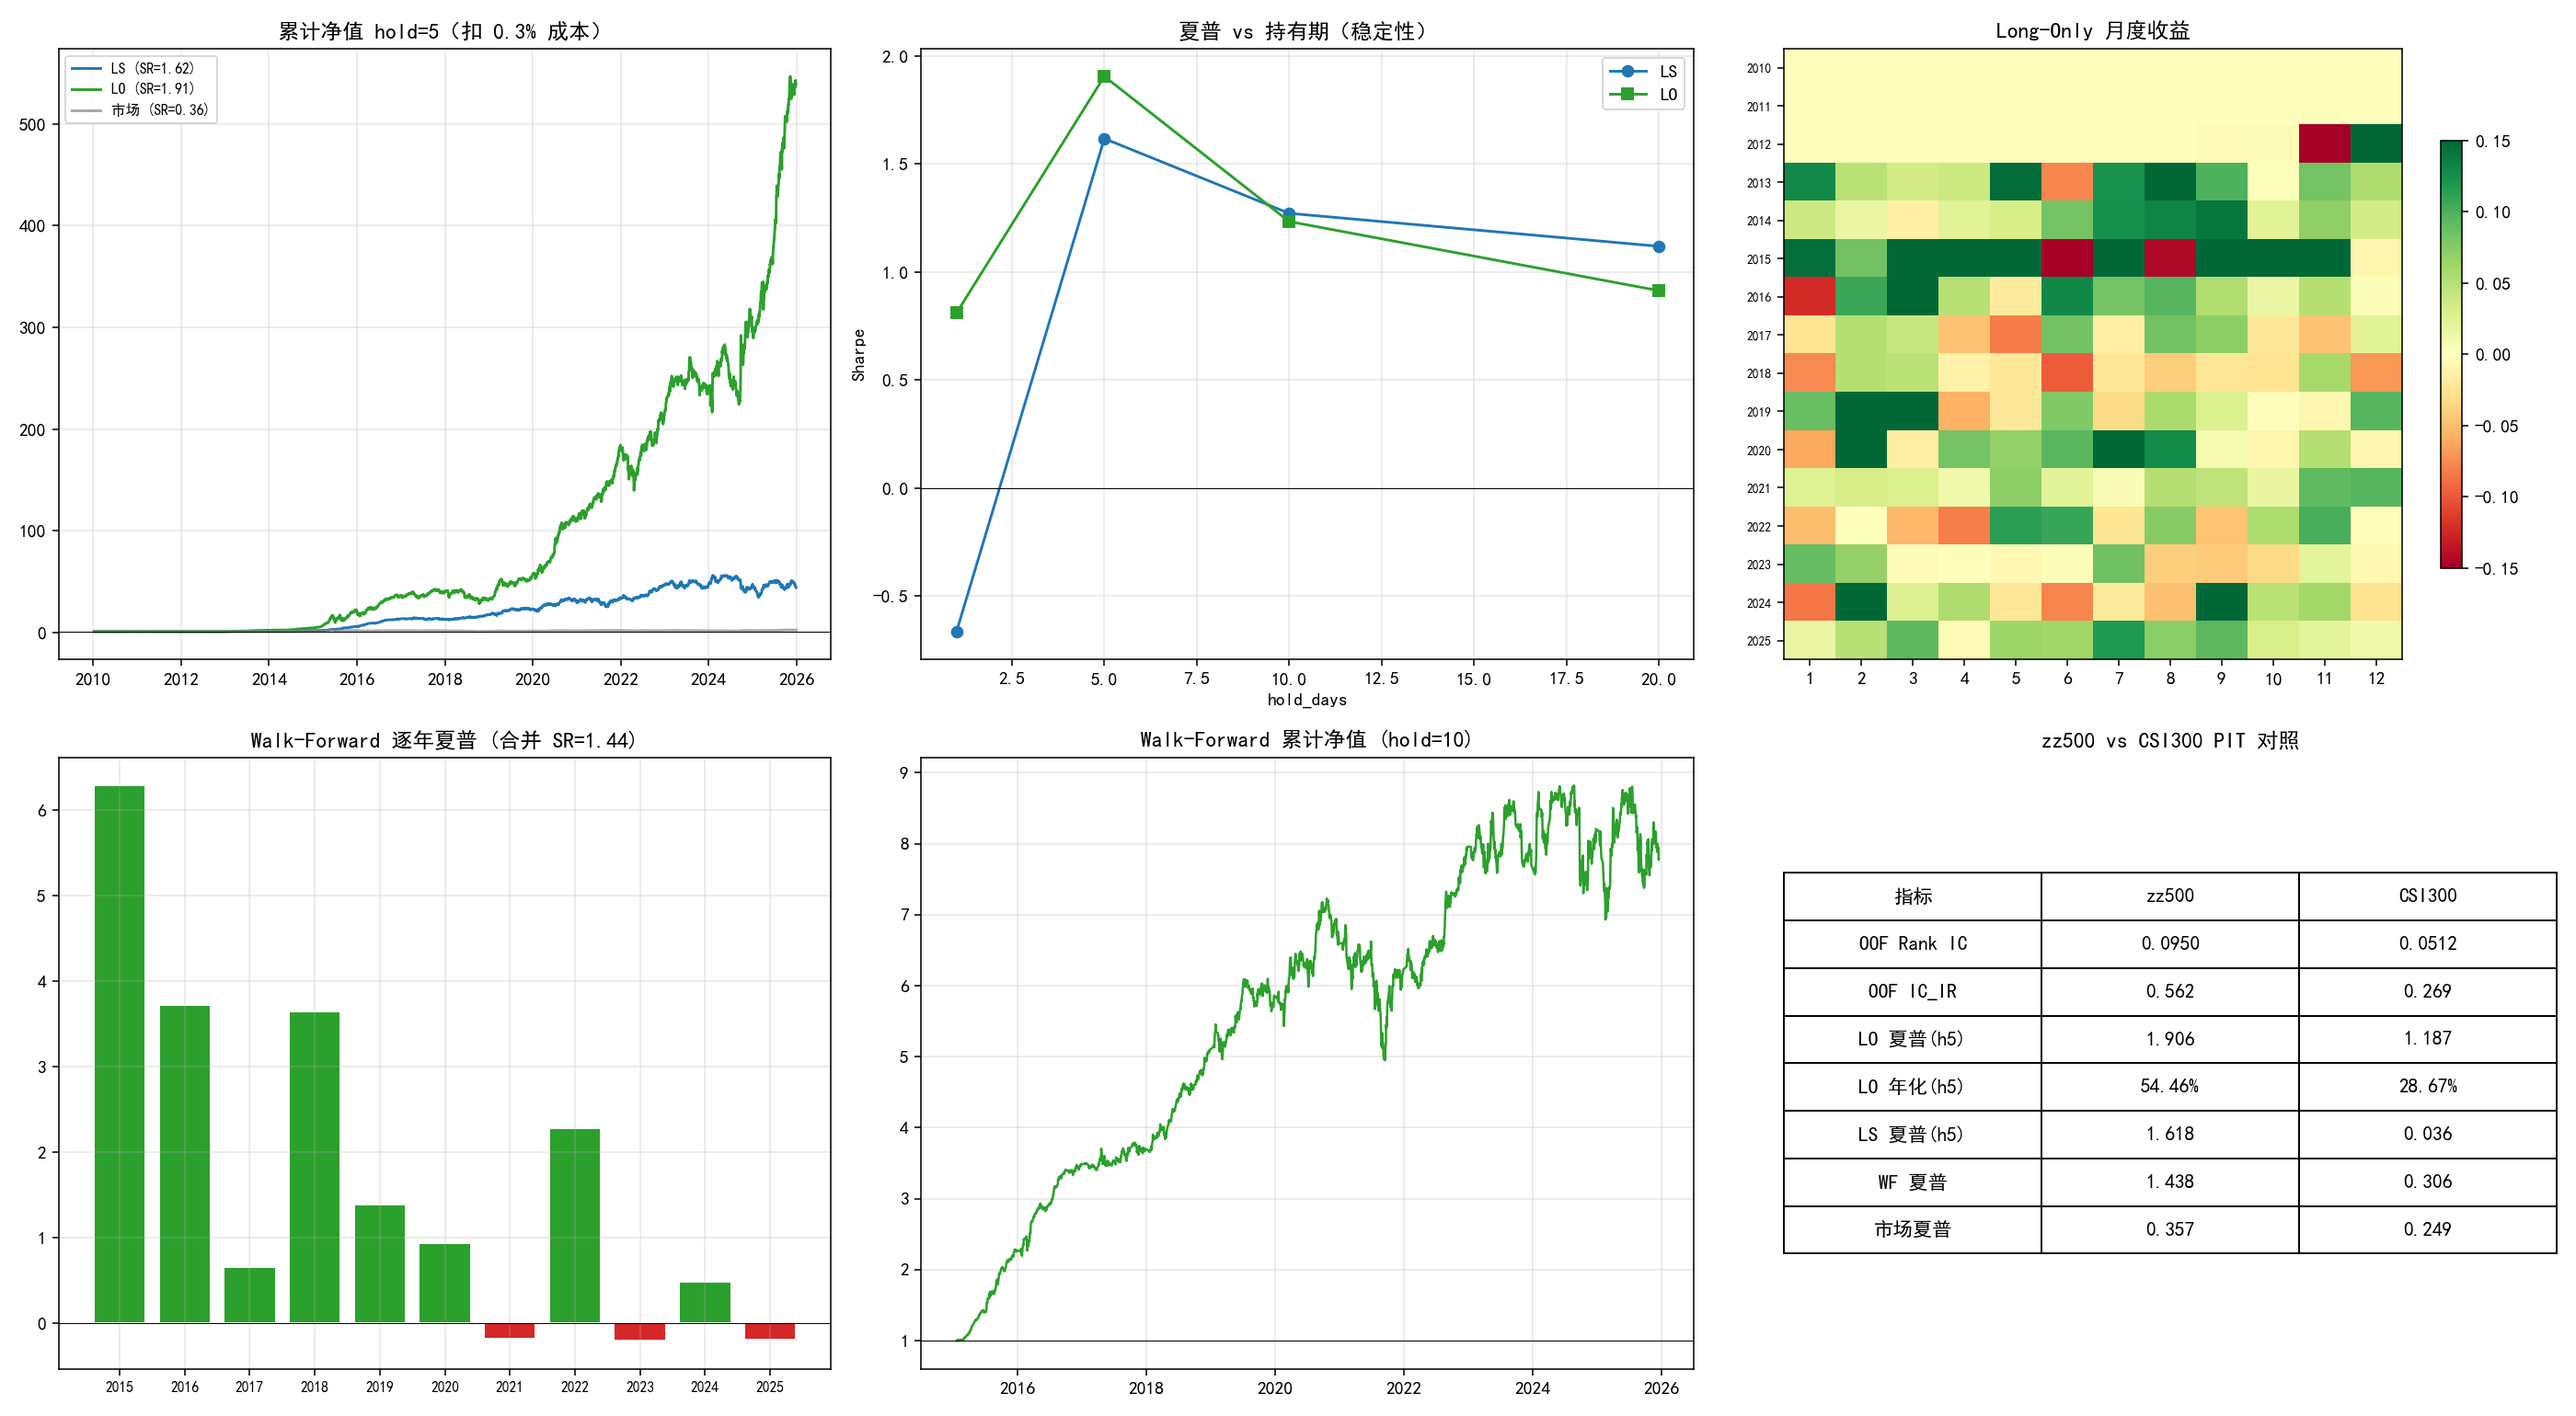
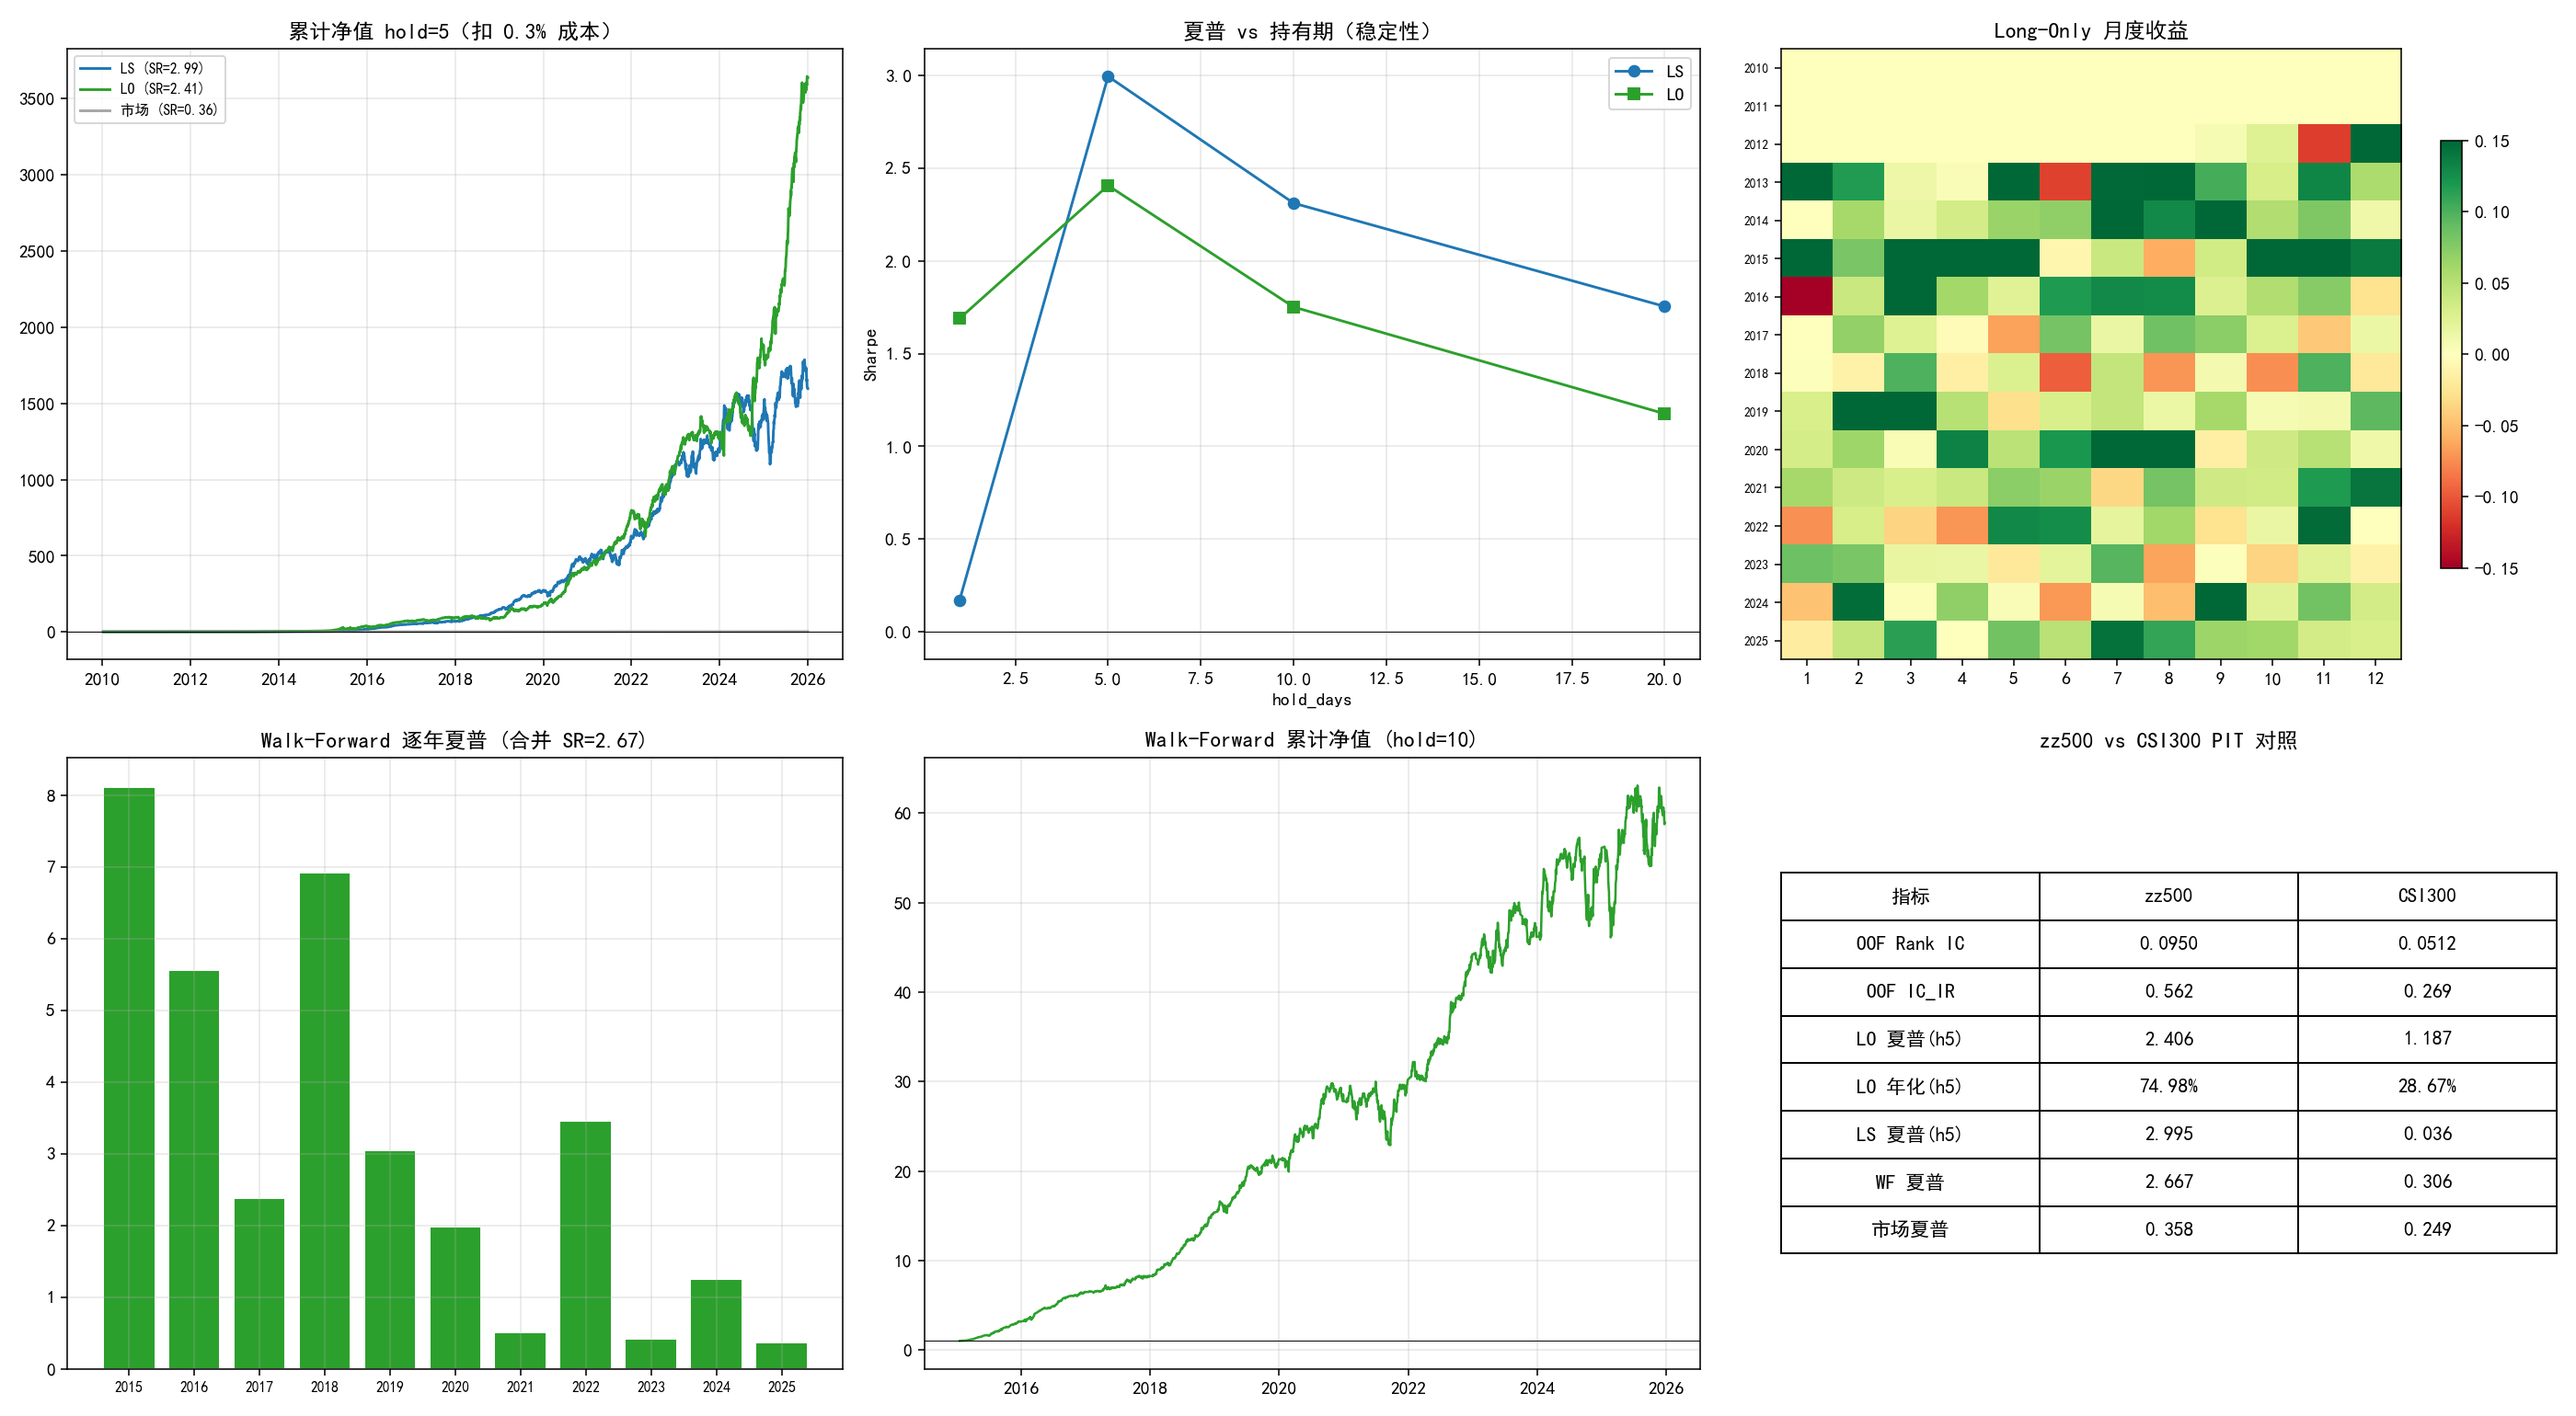
chore: 重跑 models 与 zz500 组合回测 — 更新口径收口后的图表与汇总数据
- models/portfolio_backtest_summary.png：CSI300 组合净值对比（LS 1.175 / LO 1.613）
- zz500 02_backtest_and_wf.png + hold_grid_summary.csv + summary.json + walk_forward_yearly.csv：口径收口后重跑
- 新增 models/rerun_portfolio_backtest.py（复用 hs300 X_matrix 重跑组合回测）

注：报告正文结论尚未更新——口径收口导致 LS 多空结论反转（0.036→1.175），
属重大结论变更，待用户决策后统一改写报告正文

diff --git a/models/rerun_portfolio_backtest.py b/models/rerun_portfolio_backtest.py
@@ -1,0 +1,139 @@
+"""
+models/rerun_portfolio_backtest.py — 用 hs300 X_matrix 重跑组合回测（口径收口后）。
+
+背景：
+  models/portfolio_backtest.py::load_data 依赖 strategies/feature_selection/X_matrix.csv
+  （已因 gitignore 不在工作区），但等价数据在 strategies/hs300_crowding_trial/X_matrix_hs300.csv
+  （同为 CSI300 PIT 特征矩阵：790 只 × 16 alpha + 2 market 特征）。
+
+本脚本显式加载 hs300 特征矩阵，复用 portfolio_backtest 的组合构建/绩效/绘图函数，
+重跑口径收口后的组合回测，产出更新后的 summary + 图表。
+
+用法: python models/rerun_portfolio_backtest.py
+"""
+
+from __future__ import annotations
+
+import sys
+from pathlib import Path
+
+import numpy as np
+import pandas as pd
+
+sys.path.insert(0, str(Path(__file__).parent.parent))
+
+from data.fetcher import load_daily
+from models.labels import align_X_y, build_labels
+from models.portfolio_backtest import (
+    build_portfolio,
+    performance_metrics,
+    block_bootstrap_sharpe,
+    plot_results,
+    TOP_Q, BOTTOM_Q, FWD_DAYS, N_BOOT, BLOCK_SIZE, MARKET_COLS,
+)
+
+PROJECT_ROOT = Path(__file__).parent.parent
+MODEL_DIR = Path(__file__).parent
+FIGURES_DIR = MODEL_DIR / "figures"
+HS300_X = PROJECT_ROOT / "strategies" / "hs300_crowding_trial" / "X_matrix_hs300.csv"
+
+
+def load_data():
+    """加载 OOF 预测 + hs300 X_matrix + close_matrix。"""
+    pred_path = MODEL_DIR / "oof_predictions.csv"
+    pred_lgb = pd.read_csv(pred_path, index_col=0, parse_dates=True)
+
+    X_raw = pd.read_csv(HS300_X, dtype=str)
+    X_raw["date"] = pd.to_datetime(X_raw["date"])
+    stock_col = X_raw.columns[1]
+    X_long = X_raw.set_index(["date", stock_col]).astype(float)
+
+    alpha001 = X_long["alpha001"].unstack(level=1)
+    market_vol = X_long["market_vol_20d"].unstack(level=1).iloc[:, 0]
+
+    symbols = sorted(X_long.index.get_level_values(1).unique())
+    close_data = {}
+    for sym in symbols:
+        df = load_daily(sym)
+        if df is not None and len(df) >= 100:
+            s = df.loc[(df.index >= "2010-01-01") & (df.index <= "2025-12-31"), "close"]
+            if len(s) >= 100:
+                close_data[sym] = s
+    close_matrix = pd.DataFrame(close_data).sort_index()
+
+    common_stocks = pred_lgb.columns.intersection(close_matrix.columns).intersection(alpha001.columns)
+    pred_lgb = pred_lgb[common_stocks]
+    alpha001 = alpha001[common_stocks]
+    close_matrix = close_matrix[common_stocks]
+
+    member_mask = pd.Series(True, index=X_long.index).unstack(fill_value=False)
+    daily_ret = close_matrix.pct_change()
+    mask_aligned = member_mask.reindex_like(daily_ret).fillna(False).astype(bool)
+    market_ret = daily_ret.where(mask_aligned).mean(axis=1).dropna()
+
+    return pred_lgb, alpha001, close_matrix, market_ret, market_vol, X_long
+
+
+def main():
+    print("=" * 70)
+    print("组合回测重跑（口径收口后：pct_change + 铁律 0.1% 成本）")
+    print("=" * 70)
+
+    pred_lgb, alpha001, close_matrix, market_ret, market_vol, X_long = load_data()
+
+    print("\n构建组合（铁律成本：买 0.026% / 卖 0.076%）...")
+    lgb_ls = build_portfolio(pred_lgb, close_matrix, long_only=False)
+    lgb_lo = build_portfolio(pred_lgb, close_matrix, long_only=True)
+    a001_ls = build_portfolio(alpha001, close_matrix, long_only=False)
+
+    market_cum = (1 + market_ret.fillna(0)).cumprod()
+    results = {
+        "LightGBM LS": lgb_ls,
+        "LightGBM Long-only": lgb_lo,
+        "alpha001 LS": a001_ls,
+    }
+
+    print("\n绩效汇总:")
+    boot_dist = {}
+    for name, df in results.items():
+        m = performance_metrics(df["port_ret"])
+        dist, p = block_bootstrap_sharpe(df["port_ret"])
+        boot_dist[name] = (dist, p)
+        status = "✓" if (m["sharpe"] > 1.40 and p < 0.05) else "✗"
+        print(f"  {name:25s} 年化={m['annual']:+.2%}  夏普={m['sharpe']:.3f}  "
+              f"最大回撤={m['mdd']:.2%}  Bootstrap p={p:.4f}  {status}")
+
+    m_mkt = performance_metrics(market_ret)
+    print(f"  {'市场等权':25s} 年化={m_mkt['annual']:+.2%}  夏普={m_mkt['sharpe']:.3f}  "
+          f"最大回撤={m_mkt['mdd']:.2%}")
+
+    # 作图
+    plot_results(results, boot_dist)
+
+    # 保存结果
+    summary = []
+    for name, df in results.items():
+        m = performance_metrics(df["port_ret"])
+        _, p = boot_dist[name]
+        summary.append({
+            "portfolio": name,
+            "annual_return": m["annual"],
+            "sharpe": m["sharpe"],
+            "max_drawdown": m["mdd"],
+            "bootstrap_p": p,
+            "pass": m["sharpe"] > 1.40 and p < 0.05,
+        })
+    summary.append({
+        "portfolio": "市场等权",
+        "annual_return": m_mkt["annual"],
+        "sharpe": m_mkt["sharpe"],
+        "max_drawdown": m_mkt["mdd"],
+        "bootstrap_p": None,
+        "pass": False,
+    })
+    pd.DataFrame(summary).to_csv(MODEL_DIR / "portfolio_backtest_summary.csv", index=False)
+    print("\n结果保存: models/portfolio_backtest_summary.csv")
+
+
+if __name__ == "__main__":
+    main()
